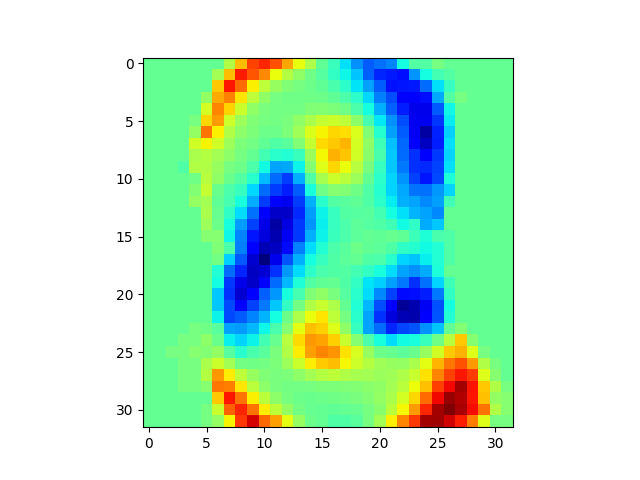
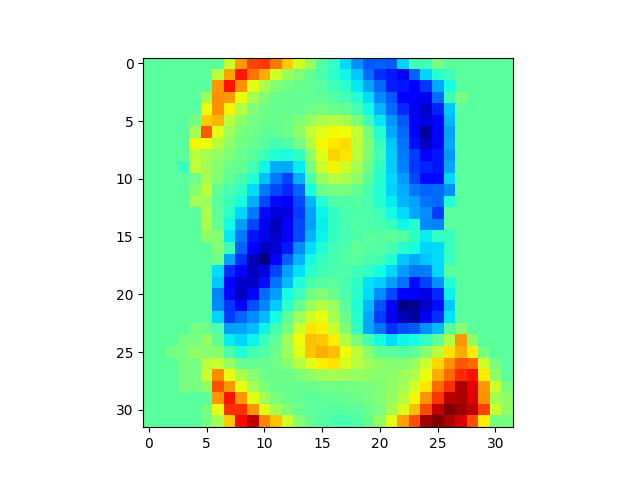
finished part 1

diff --git a/mp3/naiveBayes.py b/mp3/naiveBayes.py
@@ -4,6 +4,7 @@ import numpy as np
 from tqdm import tqdm
 import math
 import matplotlib.pyplot as plt
+import sys
 
 # Feature Extraction
 
@@ -51,7 +52,7 @@ def PriorDistribution(trainLabels):
 
     return priors
 
-def ConditionalProbability(trainData, trainLabels, x, y, currClass, fVal):
+def ConditionalProbability(trainData, trainLabels, x, y, currClass, fVal, k):
 
     zeroCount = 0.0
     oneCount = 0.0
@@ -63,25 +64,25 @@ def ConditionalProbability(trainData, trainLabels, x, y, currClass, fVal):
             elif trainData[idx][x][y] == 1:
                 oneCount += 1
 
-    prob0 = (zeroCount + 10) / ((zeroCount + 10) + (oneCount + 10))
-    prob1 = (oneCount + 10) / ((zeroCount + 10) + (oneCount + 10))
+    prob0 = (zeroCount + k) / ((zeroCount + k) + (oneCount + k))
+    prob1 = (oneCount + k) / ((zeroCount + k) + (oneCount + k))
 
     if fVal == 0:
         return prob0
     else:
         return prob1
 
-def CondProbMatrix(trainData, trainLabels):
+def CondProbMatrix(trainData, trainLabels, k):
 
     mat = np.zeros((10, 2048))
 
     for label in tqdm(range(mat.shape[0])):
         for x in range(32):
             for y in range(32):
-                mat[label][(32 * x) + y] = ConditionalProbability(trainData, trainLabels, x, y, label, 0)
+                mat[label][(32 * x) + y] = ConditionalProbability(trainData, trainLabels, x, y, label, 0, k)
         for x in range(32):
             for y in range(32):
-                mat[label][(32 * x) + y + 1024] = ConditionalProbability(trainData, trainLabels, x, y, label, 1)
+                mat[label][(32 * x) + y + 1024] = ConditionalProbability(trainData, trainLabels, x, y, label, 1, k)
 
     return mat
 
@@ -197,7 +198,7 @@ def main():
 
     print "TRAINING DATA"
     priors = PriorDistribution(trainLabels)
-    mat = CondProbMatrix(trainData, trainLabels)
+    mat = CondProbMatrix(trainData, trainLabels, int(sys.argv[1]))
 
     print "RUNNING CLASSIFIER"
     estimatedLabels = NaiveBayes(testData, len(testLabels), priors, mat)
